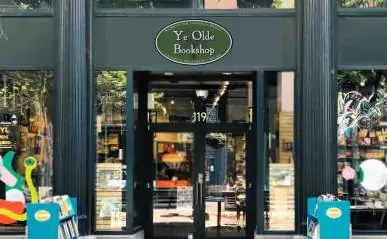
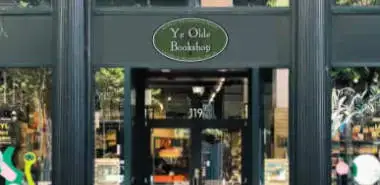
Update

diff --git a/index.html b/index.html
@@ -86,7 +86,6 @@
 			<div class="item">
 				<h1>Welcome</h1>
 				<div class="dash"></div>
-				<img src="images/shop-exterior.webp" alt="Ye Olde Bookshop exterior">
 			</div>
 			<div class="item">
 				<p>Ye Olde Bookshop is an independently owned bookshop in Christchurch. We specialise in used books and are well known in New Zealand and overseas

diff --git a/about.html b/about.html
@@ -118,7 +118,7 @@
 				<div class="dash"></div>
 			</div>
 			<div class="aside-item">
-				<img src="images/shop-exterior-small.webp" alt="Ye Olde Bookshop exterior">
+				<img src="images/shop-exterior-small.jpg" alt="Ye Olde Bookshop exterior">
 				<div class="aside-item-find-us">
 					<p>119 Colombo Street</p>
 					<p>Sydenham</p>

diff --git a/stylesheet.css b/stylesheet.css
@@ -24,7 +24,8 @@ nav, main, aside, footer {
 }
 
 header {
-	background-image: url("images/bookshelf.webp");
+	background-image: url("images/bookshelf.jpg");
+	height: 300px;
 	margin: 0 auto;
 	padding: 0;
 	}
